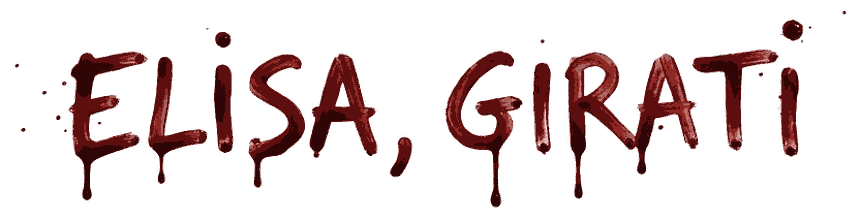
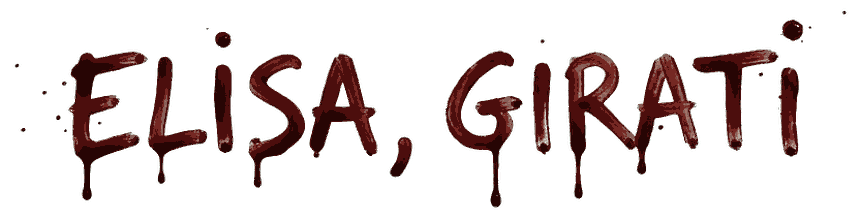
Colore del sangue uniformato alla versione standard (Elisa, Yana, Gabriele e nomi nuovi)
Claude-Session: https://claude.ai/code/session_014dApnh5cQuMdZvTWDcVASP

diff --git a/sw.js b/sw.js
@@ -3,7 +3,7 @@
  * - Asset pesanti (modelli, texture, audio): cache separata; scaricati in background dopo l'installazione.
  * Le due versioni qui sotto le aggiorna tools/bump.sh a ogni modifica (hash del contenuto): non toccarle a mano. */
 const SHELL_VERSION = '7d9aaf7328';   // @shell
-const ASSET_VERSION = '253e92c497';   // @assets
+const ASSET_VERSION = '65c87365fc';   // @assets
 const SHELL = 'ng-shell-' + SHELL_VERSION, ASSETS = 'ng-assets-' + ASSET_VERSION;
 const SHELL_FILES = ['./','./css/style.css','./icons/icon-180.png','./icons/icon-192.png','./icons/icon-32.png','./icons/icon-512.png','./icons/maskable-512.png','./index.html','./js/audio/audio.js','./js/events/ambient.js','./js/events/cellar.js','./js/events/combat.js','./js/events/dawn.js','./js/events/door.js','./js/events/glass.js','./js/events/hall.js','./js/events/morgue.js','./js/events/notes.js','./js/events/rats.js','./js/events/scare.js','./js/events/sorella.js','./js/events/tower.js','./js/events/tv.js','./js/events/warehouse.js','./js/main.js','./js/personal.js','./js/player/controls.js','./js/player/player.js','./js/pwa.js','./js/story.js','./js/ui/instability.js','./js/ui/rgbshift.js','./js/world/atmos.js','./js/world/blood.js','./js/world/bloodfont.js','./js/world/decor.js','./js/world/dust.js','./js/world/extra.js','./js/world/fingerwrite.js','./js/world/lights.js','./js/world/materials.js','./js/world/nun.js','./js/world/props.js','./js/world/redlight.js','./js/world/rooms.js','./js/world/tunnel.js','./manifest.webmanifest','./vendor/three/LICENSE','./vendor/three/Reflector.js','./vendor/three/loaders/GLTFLoader.js','./vendor/three/three.module.min.js','./vendor/three/utils/BufferGeometryUtils.js']; // @shellfiles
 const ASSET_FILES = ['./assets/audio/step0.mp3','./assets/audio/step1.mp3','./assets/audio/step2.mp3','./assets/audio/step3.mp3','./assets/audio/step4.mp3','./assets/models/ammo.glb','./assets/models/axe.glb','./assets/models/bin.glb','./assets/models/c_nurse.glb','./assets/models/c_occ.glb','./assets/models/cabinet.glb','./assets/models/cam.glb','./assets/models/can.glb','./assets/models/cart.glb','./assets/models/chair.glb','./assets/models/door.glb','./assets/models/gate.glb','./assets/models/hlamp.glb','./assets/models/kit_cables.glb','./assets/models/kit_fence.glb','./assets/models/kit_gutter.glb','./assets/models/kit_ind.glb','./assets/models/kit_manhole.glb','./assets/models/kit_pipes.glb','./assets/models/lamp.glb','./assets/models/m_bell.glb','./assets/models/m_diver.glb','./assets/models/m_nurse.glb','./assets/models/m_occ.glb','./assets/models/m_pirate.glb','./assets/models/m_root.glb','./assets/models/m_varka.glb','./assets/models/m_whisperer.glb','./assets/models/mg_chair.glb','./assets/models/mg_tool1.glb','./assets/models/mg_tool3.glb','./assets/models/mg_tool4.glb','./assets/models/mg_wall.glb','./assets/models/pistol.glb','./assets/models/rack.glb','./assets/models/rim.glb','./assets/models/seclight.glb','./assets/models/shelf.glb','./assets/models/slamp1.glb','./assets/models/slamp2.glb','./assets/models/sorella.glb','./assets/models/stool.glb','./assets/models/stove.glb','./assets/models/tank.glb','./assets/models/whisperer.glb','./assets/models/wlamp.glb','./assets/models/x_basket.glb','./assets/models/x_bust.glb','./assets/models/x_clock.glb','./assets/models/x_gnome.glb','./assets/models/x_lion.glb','./assets/models/x_micro.glb','./assets/models/x_rat.glb','./assets/models/x_screen.glb','./assets/models/x_spray.glb','./assets/models/x_tv.glb','./assets/models/x_watch.glb','./assets/tex/bath_bg.jpg','./assets/tex/blood_font.png','./assets/tex/brick_c.jpg','./assets/tex/brick_n.jpg','./assets/tex/brick_orm.jpg','./assets/tex/floorA_c.jpg','./assets/tex/floorA_n.jpg','./assets/tex/floorA_orm.jpg','./assets/tex/floorB_c.jpg','./assets/tex/floorB_n.jpg','./assets/tex/floorB_orm.jpg','./assets/tex/foot_l.png','./assets/tex/foot_r.png','./assets/tex/hall_bg.jpg','./assets/tex/handA.png','./assets/tex/handC.png','./assets/tex/mg_floor.jpg','./assets/tex/night_bg.jpg','./assets/tex/pic_drawing.jpg','./assets/tex/pic_elisa.jpg','./assets/tex/pic_yana.jpg','./assets/tex/rust_c.jpg','./assets/tex/rust_n.jpg','./assets/tex/rust_orm.jpg','./assets/tex/stone_c.jpg','./assets/tex/stone_n.jpg','./assets/tex/stone_orm.jpg','./assets/tex/wr_elisa_1.png','./assets/tex/wr_elisa_2.png','./assets/tex/wr_elisa_3.png','./assets/tex/wr_elisa_4.png','./assets/tex/wr_elisa_h.png','./assets/tex/wr_elisa_m.png','./assets/tex/wr_elisa_o.png','./assets/tex/wr_sigil.png','./assets/tex/wr_std_c2.png','./assets/tex/wr_std_h.png','./assets/tex/wr_std_m.png','./assets/tex/wr_std_o.png','./assets/tex/wr_std_t1.png','./assets/tex/wr_std_t3.png','./assets/tex/wr_std_w4.png','./assets/tex/wr_yana_1.png','./assets/tex/wr_yana_2.png','./assets/tex/wr_yana_3.png','./assets/tex/wr_yana_4.png','./assets/tex/wr_yana_h.png','./assets/tex/wr_yana_m.png','./assets/tex/wr_yana_o.png','./assets/tex/wr_yana_soul.png']; // @assetfiles
